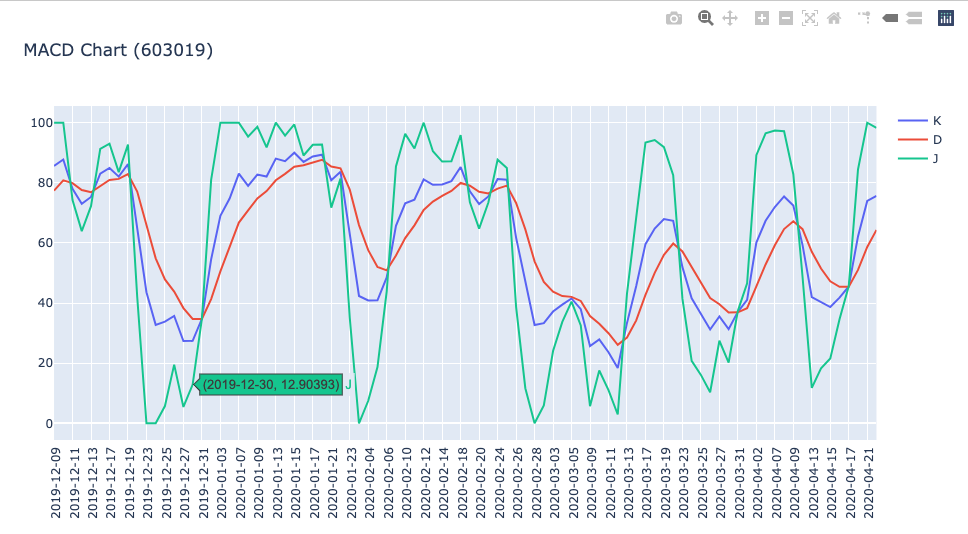
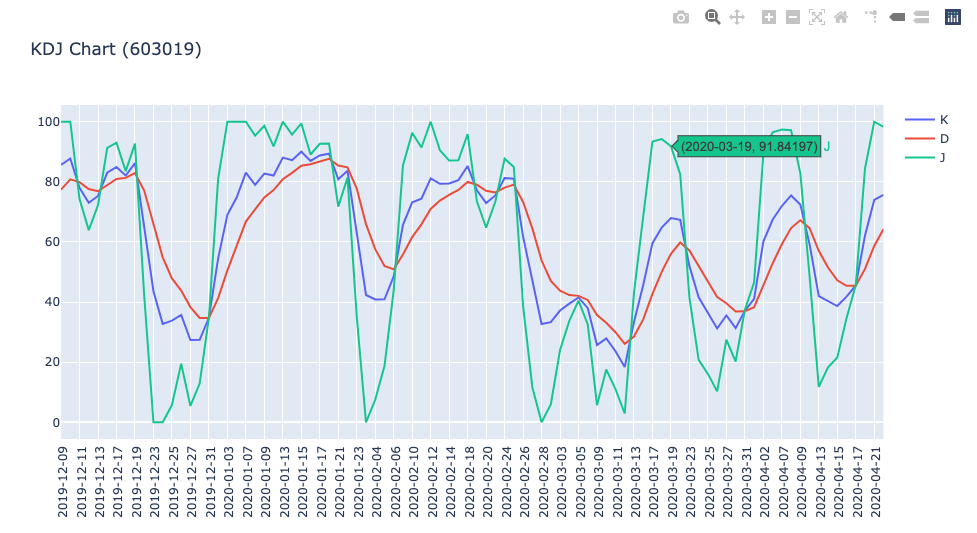
Add docstring and more README and version bump

diff --git a/insider/stock_insider.py b/insider/stock_insider.py
@@ -177,7 +177,7 @@ class StockInsider(Stock, MovingIndicatorMixin, KDJIndicatorMixin, RSIIndicatorM
 
         layout = self._set_layout()
         fig = go.Figure(data=plot_data, layout=layout)
-        fig.update_layout(title_text=f"MACD Chart ({self.stock_code})")
+        fig.update_layout(title_text=f"KDJ Chart ({self.stock_code})")
         fig.show()
 
     def plot_rsi(self, head: int = 90, ns: Optional[List] = None):

diff --git a/setup.py b/setup.py
@@ -12,7 +12,7 @@ setup(
     description="The Python implementation of an stock analysis and visualization tool.",
     long_description_content_type='text/markdown',
     long_description=long_description,
-    version="0.0.3",
+    version="0.0.4",
     author="Kaiqi Dong",
     url="https://github.com/charlesdong1991/StockInsider",
     author_email="kaiqidong1991@gmail.com",

diff --git a/README.md b/README.md
@@ -81,12 +81,15 @@ can set `verbose` to `False`.
 
 ### Stock Trading Indicator Visualization
 
-There are many commonly used indicators supported in this tool:
+Currently, there are many commonly used indicators supported in this tool:
 
 - MA (Moving Average): `si.plot_ma()`
 - MD (Moving Deviation): `si.plot_md()`
 - EMA (Exponential Moving Average): `si.plot_ema()`
 - MACD (Moving Average Convergence/Divergence): `si.plot_macd()`
+- KDJ: `si.plot_kdj`
+- RSI (Relative Strength Index): `si.plot_rsi()`
+- VRSI (Volumn Relative Strength Index): `si.plot_vrsi()`
 
 And there are several options to tune with:
 
@@ -95,6 +98,8 @@ And there are several options to tune with:
 plot via setting `head`.
 - Choose which indicators are included in the plot, e.g. only plot `5-day`
 and `60-day` line of MA indicator by setting `ns` to `[5, 60]`.
+
+And some other more for specific indicators, please check out the docstrings.
 
 
 ### Get the stock data in Pandas DataFrame
